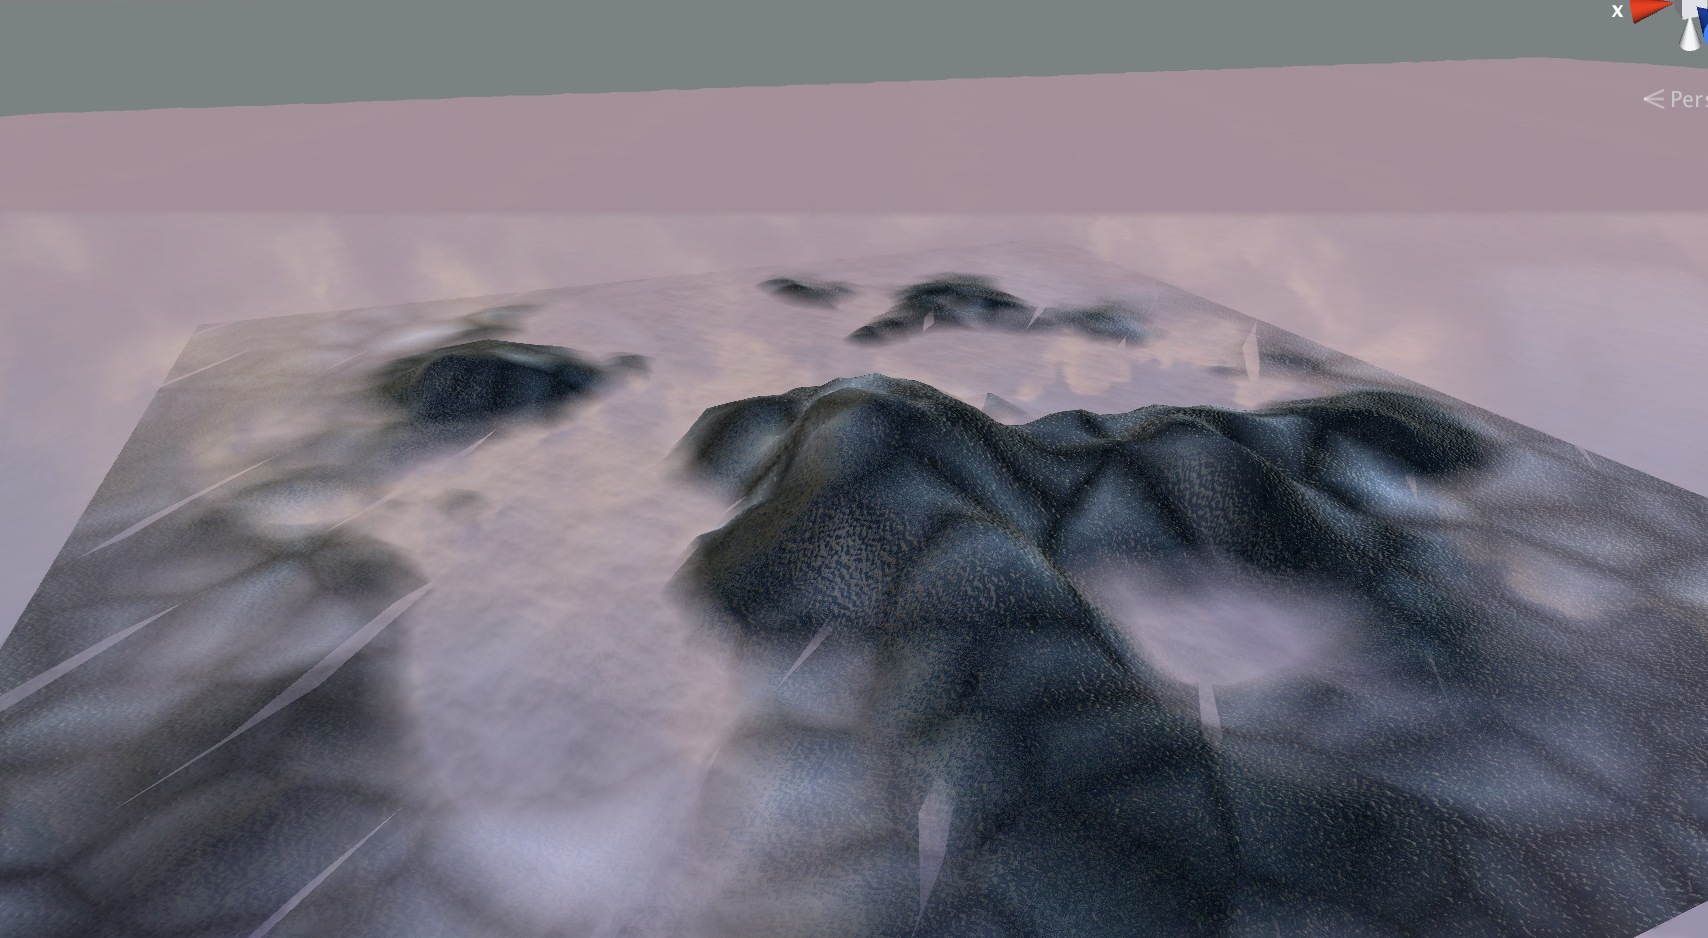
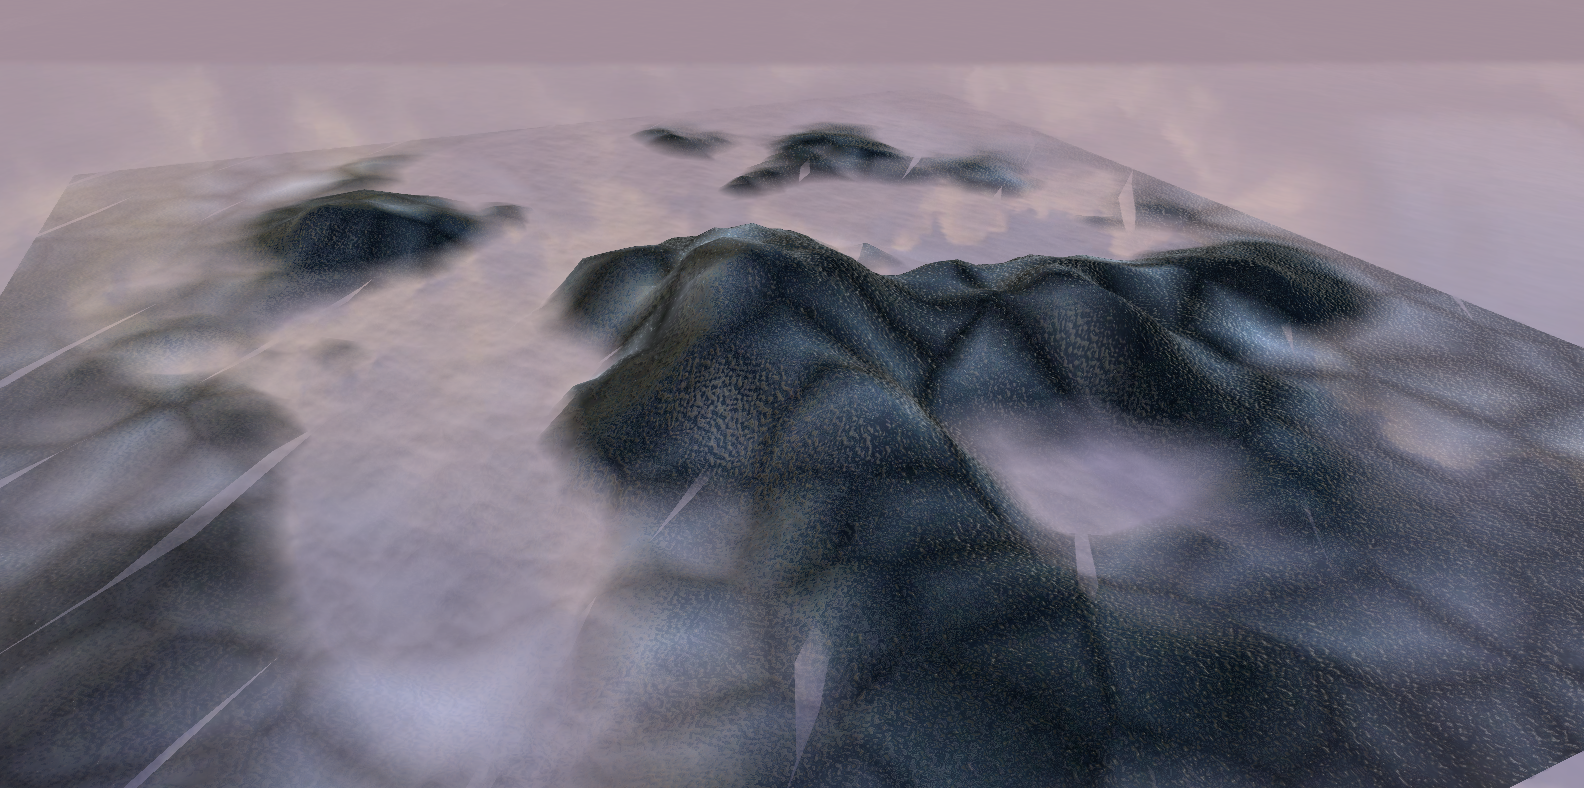
worked on the story

diff --git a/Assets/_Story/StoryConstants.cs b/Assets/_Story/StoryConstants.cs
@@ -1,0 +1,88 @@
+using System.Collections;
+using System.Collections.Generic;
+using UnityEngine;
+
+using UILib;
+
+namespace Story
+{
+	public class Character
+	{
+		public string name { get; private set; }  
+		public TText style { get; private set; }
+
+		public Character (string name, TText style)
+		{
+			this.name = name; 
+			this.style = style;
+		}
+	}
+
+	public struct StoryEvent
+	{
+		public List<Line> lines;
+	}
+
+	public struct Line {
+		public Character c;
+		public string t;
+	}
+
+	public enum StoryMarker {
+		_00Initial, 
+		_01Setup, 
+		_02Instructions, 
+		_03IslandReached, 
+		_04Instructions
+	}
+
+	public class StoryConstants
+	{			
+		public static Vector2 defNarratePos = new Vector2 (10, 100);
+		public static Vector2 defHQPos = new Vector2 (100, 50);
+		public static Vector2 defNarrateSize = new Vector2 (200, 100);
+		public const int defNarFontSize = 16;
+		public const int defHQFontSize = 12;
+
+		public static Color defColor = Color.black;
+		public static Color hqColor = Color.blue;
+		public static Color npcColor = Color.gray;
+
+		public static TText defaultStyle = new TText (npcColor, defNarratePos, defNarrateSize);
+		public static TText narratorStyle = new TText(defColor, defNarratePos, defNarrateSize); 
+		public static TText hqStyle = new TText(hqColor, defHQPos, defNarrateSize);
+
+		public static Dictionary <string, TText> allStyles = new Dictionary<string, TText> {
+			{ "narrator", narratorStyle }, 
+			{ "hq", hqStyle }, 
+			{ "npc", defaultStyle },
+		};
+
+		public static Character jay = new Character ("Jay", allStyles ["narrator"]);
+		public static Character hq = new Character ("HQ", allStyles ["hq"]);
+		public static Character mom = new Character ("Mom", allStyles ["npc"]);
+
+		public static Dictionary<string, Character> allCharacters = new Dictionary<string, Character> {
+			{ "Jay", jay},
+			{ "HQ", hq}, 
+			{ "Mom", mom}
+		};
+
+
+		public static StoryEvent _00InitialEvent = new StoryEvent {
+			lines = new List<Line>()
+		};
+
+		public static Dictionary<StoryMarker, StoryEvent> allEvents = 
+				new Dictionary<StoryMarker, StoryEvent> {
+			{StoryMarker._00Initial,  _00InitialEvent},
+			{StoryMarker._01Setup, _00InitialEvent},
+			{StoryMarker._02Instructions, _00InitialEvent},
+			{StoryMarker._03IslandReached, _00InitialEvent },
+			{StoryMarker._04Instructions, _00InitialEvent},
+		};
+
+
+
+	}
+}

diff --git a/Assets/_Story/StoryController.cs b/Assets/_Story/StoryController.cs
@@ -7,15 +7,35 @@ namespace Story
 {
 	public class StoryController : MonoBehaviour
 	{
+		StoryEvent curEvent;
+		GameObject nObj, hObj;
 
 		// Use this for initialization
-		void OnGUI()
+		void Start()
 		{
-			GUI.Label (new Rect (10, 10, 100, 100), "welcome.");
-		}
-	
-		void __showText(StoryEvent se) {	
+//			nObj = Instantiate (Resources.Load ("Characters/narrator")) as GameObject;
+//			nObj.GetComponent<Text> ().text = "";
 
+//			hObj = Instantiate (Resources.Load ("Characters/hq")) as GameObject;
+//			hObj.GetComponent<Text> ().text = "";
+
+//			registerEvent (StoryMarker._00Initial);
+		}
+
+		public void registerEvent (StoryMarker se) {
+			curEvent = StoryConstants.allEvents [se];
+			showText (curEvent.lines [0]);
+			curEvent.lines.RemoveAt (0);
+		}
+
+		void onMouseClick() {
+			showText (curEvent.lines [0]);
+			curEvent.lines.RemoveAt (0);
+		}
+
+		private void showText(Line l) {
+			Text t = nObj.GetComponent<Text>(); 
+			t.text = l.t;
 		}
 	}
 

diff --git a/Assets/_Story/TText.cs b/Assets/_Story/TText.cs
@@ -9,26 +9,25 @@ namespace UILib
 	public class TText : MonoBehaviour
 	{
 
-		private string s = "";
-		private int pause_before, pause_after;
-		private Color color;
+		public int pause_before{ get; private set;} 
+		public int pause_after { get; private set;}
+		public Color color {get; private set;}
 
-		private Vector2 pos;
+		public Vector2 pos {get; private set;}
+		public Vector2 size {get; private set;} 
 
-		private Text t;
+		public int font_size {get; private set;}
 
-
-		public TText (string s, 
-			Color c, 
-			Vector2 pos,
-		             int pb = 0, int pa = 0
-			)
+		public TText (Color c, Vector2 pos, Vector2 size,
+			int pb = 0, int pa = 0, 
+			int fontsize = Story.StoryConstants.defNarFontSize)
 		{
-			this.s = s;
 			this.pause_before = pb; 
 			this.pause_before = pa; 
 			this.color = c;
 			this.pos = pos;
+			this.size = size;
+			this.font_size = fontsize;
 		}
 	}
 

diff --git a/Assets/_IslandGen/Pipeline/Nav.cs b/Assets/_IslandGen/Pipeline/Nav.cs
@@ -388,17 +388,15 @@ namespace Pipeline
 			allTiles.Add (init, t); 
 			totalTiles++;
 
-			if (testIsland) {
-				Vector3[] islePos = Seeder.Seed (t.Coor, t.Size);
-				foreach (Vector3 p in islePos) {
-					Debug.Log ("Queued island");
-					Island i = new Island (p, scale, method, textureType, textureDensity);
+			Vector3[] islePos = Seeder.Seed (t.Coor, t.Size);
+			foreach (Vector3 p in islePos) {
+				Debug.Log ("Queued island");
+				Island i = new Island (p, scale, method, textureType, textureDensity);
 
-					t.activeIslands.Add (i); 
-					queuedIslands.Add (i);
+				t.activeIslands.Add (i); 
+				queuedIslands.Add (i);
 
-					__instantiateTrash (i);
-				}
+				__instantiateTrash (i);
 			}
 	
 			return t;

diff --git a/Assets/_Story/TextConstants.cs b/Assets/_Story/TextConstants.cs
@@ -7,13 +7,7 @@ namespace UILib
 	public class TextConstants
 	{
 
-		public static Vector2 defNarratePos = new Vector2 (10, 50);
-		public static Vector2 defHQPos = new Vector2 (100, 50);
-
-		public const int defNarFontSize = 16;
-		public const int defHQFontSize = 12;
-
-		public static Color defColor = Color.black;
+	
 
 	}
 

diff --git a/Assets/_Lib/Terrain/GenericTerrain.cs b/Assets/_Lib/Terrain/GenericTerrain.cs
@@ -66,7 +66,7 @@ namespace TerrainLib
 		                       int density = defDensity)
 		{
 			this.Method = method; 
-			this.Material = MaterialController.GenRandom ();
+			this.Material = MaterialController.GenDefault();
 
 			// set default values 
 			this.Texture = new TTexture (init, textureResolution, density, t);
